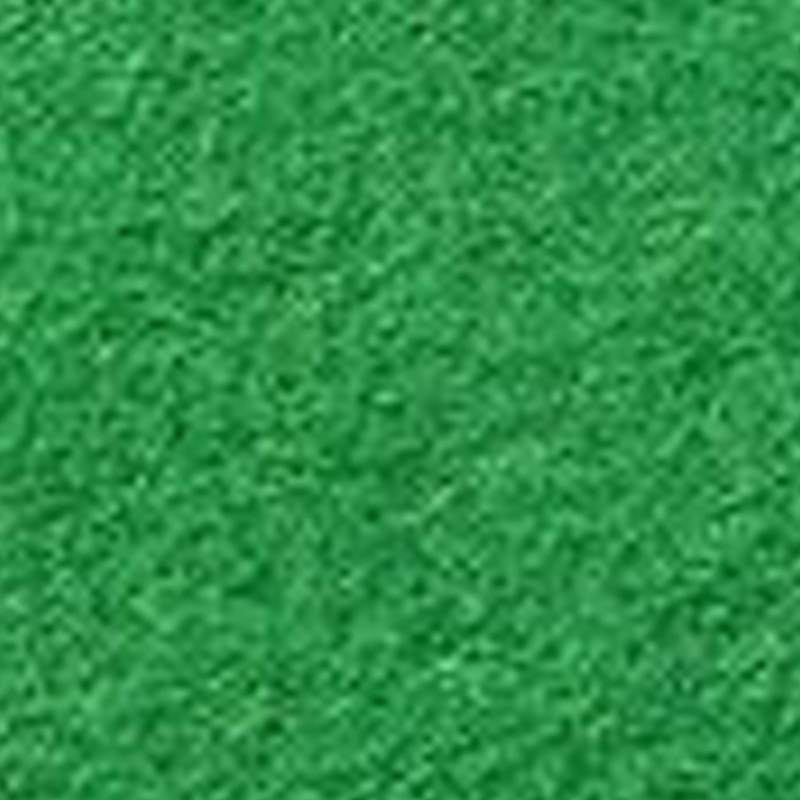
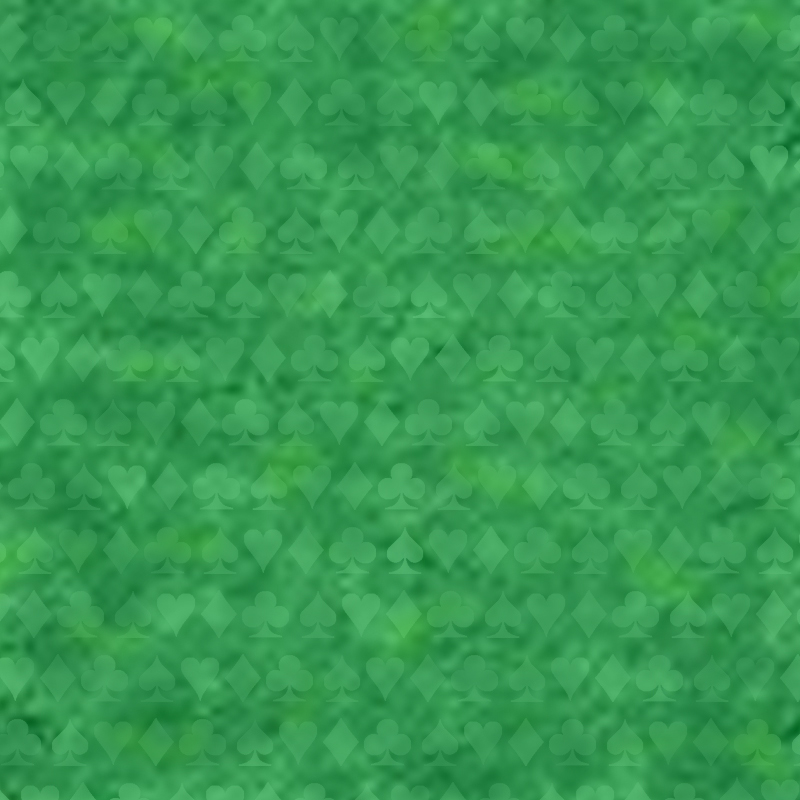
finishing game

diff --git a/app.js b/app.js
@@ -90,6 +90,7 @@ var startGame = function() {
   setTimeout(function() {
     $("#message-display p").text("Find the Queen to Win!");
     cardShow();
+    playHighlight();
   }, 4500);
 };
 
@@ -119,7 +120,10 @@ var pickCard = function() {
     $("#money-update p").text("$" + money);
     }
     setTimeout(function() {
-      $("#message-display p").text("Do you want to Keep Playing or Quit?");
+      $("#message-display p").text("Do you want to Play On or Quit?");
+    }, 2000);
+    setTimeout(function() {
+      playonQuit();
     }, 2000);
     gameChoice();
     $(".card").off();
@@ -136,7 +140,10 @@ var pickCard = function() {
     $("#money-update p").text("$" + money);
     }
     setTimeout(function() {
-      $("#message-display p").text("Do you want to Keep Playing or Quit?");
+      $("#message-display p").text("Do you want to Play On or Quit?");
+    }, 2000);
+    setTimeout(function() {
+      playonQuit();
     }, 2000);
     gameChoice();
     $(".card").off();
@@ -153,7 +160,10 @@ var pickCard = function() {
     $("#money-update p").text("$" + money);
     }
     setTimeout(function() {
-      $("#message-display p").text("Do you want to Keep Playing or Quit?");
+      $("#message-display p").text("Do you want to Play On or Quit?");
+    }, 2000);
+    setTimeout(function() {
+      playonQuit();
     }, 2000);
     gameChoice();
     $(".card").off();
@@ -162,9 +172,9 @@ var pickCard = function() {
 
 // A function for initiating the user choices after a round of play
 var gameChoice = function() {
-  $("#keepgoing-button").click(function() {
+  $("#playon-button").click(function() {
     reRun();
-    $("#keepgoing-button").off();
+    $("#playon-button").off();
   });
   $("#quit-button").click(function() {
     if (money < 0) {
@@ -172,15 +182,17 @@ var gameChoice = function() {
   } else if (money > 0) {
     $("#message-display p").text("Somehow you took $" + money + " of my money!");
   } else {
-    $("#message-display p").text("Breaking even is boring...come on, play more.");
+    $("#message-display p").text("Breaking even is boring...play more.");
   }
-    $("#quit-button").off();
+  resetHighlight();
+  $("#quit-button").off();
   });
 };
 
 // A function for the user to continue playing after the round is over
 var reRun = function() {
     $("#message-display p").text("Find the Queen to Win!");
+    playHighlight();
     init();
     cardHide();
     cardShow();
@@ -191,6 +203,29 @@ var reSet = function() {
   $("#reset-button").click(function() {
     location.reload();
   });
+};
+
+// A funtion to highlight the play button at the appropriate times
+var playHighlight = function() {
+  $("#play-button").css("background-image", "url(images/play_hl.png)");
+  setTimeout(function() {
+    $("#play-button").css("background-image", "url(images/play.png)");
+  }, 2500);
+};
+
+// A funtion to highlight the play on and quit buttons at the appropriate times
+var playonQuit = function() {
+  $("#playon-button").css("background-image", "url(images/play_on_hl.png)");
+  $("#quit-button").css("background-image", "url(images/quit_hl.png)");
+  setTimeout(function() {
+    $("#playon-button").css("background-image", "url(images/play_on.png)");
+    $("#quit-button").css("background-image", "url(images/quit.png)");
+  }, 2500);
+};
+
+// A funtion to highlight the reset button at the appropriate times
+var resetHighlight = function() {
+  $("#reset-button").css("background-image", "url(images/reset_hl.png)");
 };
 
 // To be ready when the page loads

diff --git a/style.css b/style.css
@@ -15,17 +15,28 @@ box-sizing: inherit;
 }
 
 body {
-	background-color: green;
+	background-image: url(images/background.jpg);
+	background-size: cover;
+	background-repeat: no-repeat;
 }
 
 #logo {
-	width: 700px;
-	height: 200px;
+	width: 375px;
+	height: 250px;
 	position: absolute;
-	top: 12px;
+	top: 3px;
 	left: 50%;
-	margin-left: -350px;
-	background: brown;
+	margin-left: -187.5px;
+	background-image: url(images/logo_one.png);
+	background-size: cover;
+	background-repeat: no-repeat;
+	animation: logoimage 1.5s infinite;
+}
+
+@keyframes logoimage {
+	50% {
+		background-image: url(images/logo_two.png);
+	}
 }
 
 #message-display {
@@ -35,13 +46,12 @@ body {
 	top: 217px;
 	left: 50%;
 	margin-left: -450px;
-	background: orange;
 }
 
 #message-display p {
 	text-align: center;
 	line-height: 80px;
-	font-size: 2.2em;
+	font-size: 2.3em;
 	margin: 0;
 }
 
@@ -49,20 +59,20 @@ body {
 	width: 680px;
 	height: 275px;
 	position: absolute;
-	top: 302px;
+	top: 292px;
 	left: 50%;
 	margin-left: -340px;
-	background: red;
 }
 
 .card {
 	width: 183px;
 	height: 275px;
 	position: absolute;
+	cursor:	pointer;
 }
 
 .back {
-	background-image: url(images/card.jpg);
+	background-image: url(images/card.png);
 	background-size: cover;
 }
 
@@ -79,78 +89,87 @@ body {
 }
 
 .joker {
-	background-image: url(images/joker.jpg);
+	background-image: url(images/joker.png);
 	background-size: cover;
 }
 
 .queen {
-	background-image: url(images/queen.jpg);
+	background-image: url(images/queen.png);
 	background-size: cover;
 }
 
 #button-container {
 	width: 700px;
-	height: 60px;
+	height: 100px;
 	position: absolute;
-	top: 582px;
+	top: 572px;
 	left: 50%;
 	margin-left: -350px;
-	background: lightblue;
 }
 
 #reset-button {
-	width: 50px;
-	height: 50px;
+	width: 100px;
+	height: 100px;
 	position: absolute;
 	top: 5px;
-	left: 11%;
+	left: 8%;
 	cursor: pointer;
-	background: yellow;
+	background-image: url(images/reset.png);
+	background-size: cover;
+	background-repeat: no-repeat;
 }
 
 #play-button {
-	width: 50px;
-	height: 50px;
+	width: 100px;
+	height: 100px;
 	position: absolute;
 	top: 5px;
-	left: 20%;
+	left: 22%;
 	cursor: pointer;
-	background: yellow;
+	background-image: url(images/play.png);
+	background-size: cover;
+	background-repeat: no-repeat;
 }
 
 #money-update {
-	width: 300px;
-	height: 50px;
+	width: 200px;
+	height: 100px;
 	position: absolute;
 	top: 5px;
 	left: 50%;
-	margin-left: -150px;
-	background: pink;
+	margin-left: -100px;
+	background-image: url(images/pig.png);
+	background-size: cover;
+	background-repeat: no-repeat;
 }
 
 #money-update p {
 	text-align: center;
-	line-height: 50px;
+	line-height: 70px;
 	font-size: 1.4em;
 	margin: 0;
 }
 
-#keepgoing-button {
-	width: 50px;
-	height: 50px;
+#playon-button {
+	width: 100px;
+	height: 100px;
 	position: absolute;
 	top: 5px;
-	left: 73%;
+	left: 65%;
 	cursor: pointer;
-	background: yellow;
+	background-image: url(images/play_on.png);
+	background-size: cover;
+	background-repeat: no-repeat;
 }
 
 #quit-button {
-	width: 50px;
-	height: 50px;
+	width: 100px;
+	height: 100px;
 	position: absolute;
 	top: 5px;
-	left: 82%;
+	left: 79%;
 	cursor: pointer;
-	background: yellow;
+	background-image: url(images/quit.png);
+	background-size: cover;
+	background-repeat: no-repeat;
 }

diff --git a/index.html b/index.html
@@ -14,7 +14,7 @@ Student @GA in NYC
     <meta name="description" content="">
     <meta name="keywords" content="">
 
-    <!-- <link rel="shortcut icon" href="image path" type="image/type"> -->
+    <link rel="shortcut icon" href="images/head_logo.png" type="image/png">
 
     <title>Three Card Monte</title>
 
@@ -29,7 +29,7 @@ Student @GA in NYC
 
   <body>
 
-    <div id="logo">--LOGO--</div>
+    <div id="logo"></div>
 
     <div id="message-display"><p></p></div>
 
@@ -40,11 +40,11 @@ Student @GA in NYC
     </div> <!--card-container-->
 
     <div id="button-container">
-      <div id="reset-button">Reset</div>
-      <div id="play-button">Play</div>
+      <div id="reset-button"></div>
+      <div id="play-button"></div>
       <div id="money-update"><p>$0</p></div>
-      <div id="keepgoing-button">Keep Plaing</div>
-      <div id="quit-button">Quit</div>
+      <div id="playon-button"></div>
+      <div id="quit-button"></div>
     </div> <!--button-container-->
 
   </body>
